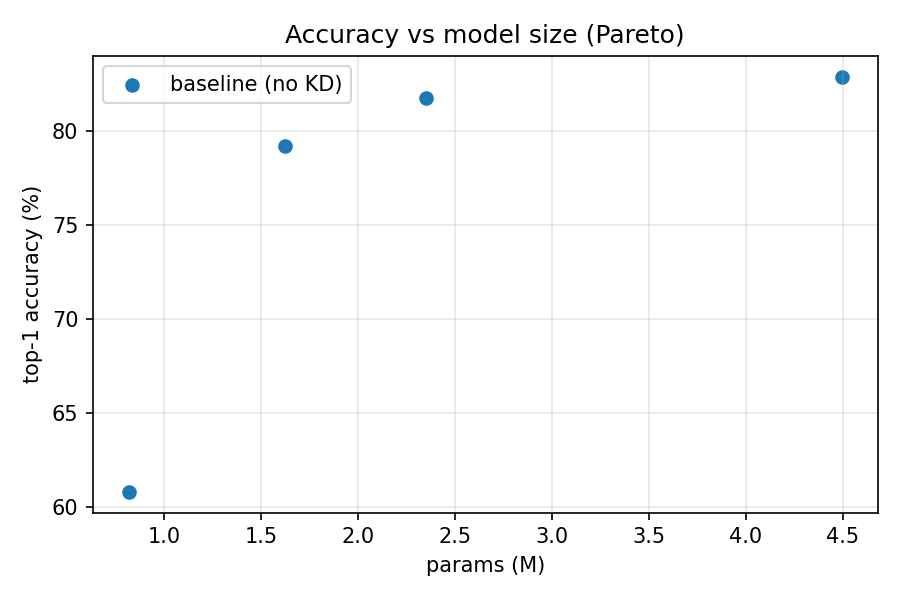
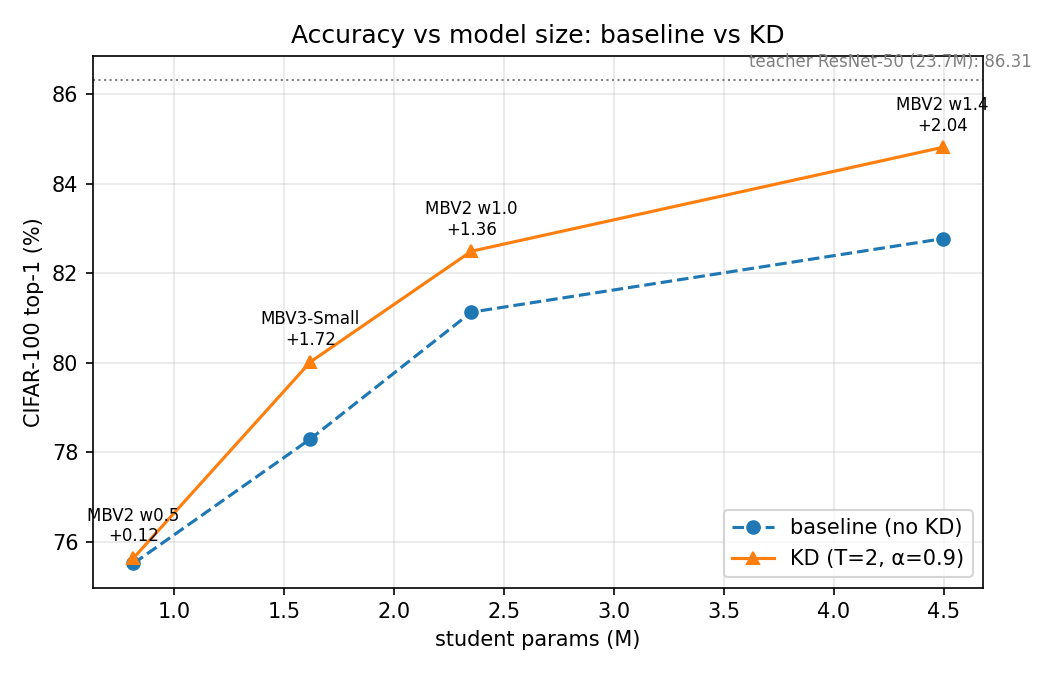
Experiment 4: baseline vs KD (T=2, a=0.9) on all student widths + new plots
- queue_exp4.py: per-student quick recipe test, baseline, KD (no LS, seed 42)
- results: w0.5 +0.12, MBV3-Small +1.72, w1.0 +1.36, w1.4 +2.04 (same-recipe gains, best_top1)
- plot_results.py: plots restricted to final run set; annotated pareto/kd_gain; heatmap (no-LS) and heatmap_old_ls (LS-teacher collapse)
- Known issues to fix next (Option B): selection on test set, T/alpha tuned on w0.5 only, adamw baselines weaker than sgd, single seed

diff --git a/scripts/plot_results.py b/scripts/plot_results.py
@@ -11,6 +11,7 @@ Usage:
 from __future__ import annotations
 
 import argparse
+import re
 import sys
 from pathlib import Path
 
@@ -34,23 +35,53 @@ def _pretrained(row) -> bool:
     return int(_f(row, "pretrained", 1)) == 1
 
 
+# ---- Final (Experiment 4) run set: no label smoothing, adamw, seed 42, KD T=2 a=0.9 ----
+FINAL_STUDENTS = [  # (label, baseline run, KD run)
+    ("MBV2 w0.5", "student_mbv2_cifar100_w0.5_nols_adamw1e-3",
+     "kd_cifar100_w0.5_adamw1e-3_T2.0_a0.9_nols"),
+    ("MBV3-Small", "student_mbv3s_cifar100_nols_adamw1e-3",
+     "kd_cifar100_mbv3s_adamw1e-3_T2.0_a0.9_nols"),
+    ("MBV2 w1.0", "student_mbv2_cifar100_w1.0_nols_adamw1e-3",
+     "kd_cifar100_w1.0_adamw1e-3_T2.0_a0.9_nols"),
+    ("MBV2 w1.4", "student_mbv2_cifar100_w1.4_nols_adamw1e-3",
+     "kd_cifar100_w1.4_adamw1e-3_T2.0_a0.9_nols"),
+]
+FINAL_TEACHER = "teacher_resnet50_cifar100_nols"
+
+
+def final_pairs(rows):
+    """Return [(label, params_m, base_top1, kd_top1)] for students with both runs present."""
+    by_name = {r.get("run_name"): r for r in rows}
+    pairs = []
+    for label, b, k in FINAL_STUDENTS:
+        if b in by_name and k in by_name:
+            pairs.append((label, _f(by_name[b], "params_m"),
+                          _f(by_name[b], "best_top1"), _f(by_name[k], "best_top1")))
+    return sorted(pairs, key=lambda p: p[1]), by_name.get(FINAL_TEACHER)
+
+
 def plot_pareto(rows, out: Path) -> None:
-    rows = [r for r in rows if _pretrained(r)]
-    base = [r for r in rows if int(_f(r, "kd")) == 0 and r.get("model") != "resnet50"]
-    kd = [r for r in rows if int(_f(r, "kd")) == 1]
-    plt.figure(figsize=(6, 4))
-    if base:
-        plt.scatter([_f(r, "params_m") for r in base],
-                    [_f(r, "best_top1") for r in base],
-                    marker="o", label="baseline (no KD)")
-    if kd:
-        plt.scatter([_f(r, "params_m") for r in kd],
-                    [_f(r, "best_top1") for r in kd],
-                    marker="^", label="KD")
-    plt.xlabel("params (M)")
-    plt.ylabel("top-1 accuracy (%)")
-    plt.title("Accuracy vs model size (Pareto)")
-    plt.legend()
+    pairs, teacher = final_pairs(rows)
+    if not pairs:
+        print("[plot] no final baseline/KD pairs; skipping pareto.")
+        return
+    xs = [p[1] for p in pairs]
+    plt.figure(figsize=(7, 4.5))
+    plt.plot(xs, [p[2] for p in pairs], "o--", label="baseline (no KD)")
+    plt.plot(xs, [p[3] for p in pairs], "^-", label="KD (T=2, α=0.9)")
+    for label, x, b, k in pairs:
+        plt.annotate(f"{label}\n+{k - b:.2f}", (x, k), textcoords="offset points",
+                     xytext=(0, 8), ha="center", fontsize=8)
+    if teacher:
+        # teacher drawn as reference line (23.7M params would squash the x-axis)
+        ty = _f(teacher, "best_top1")
+        plt.axhline(ty, color="gray", ls=":", lw=1)
+        plt.text(0.01, ty + 0.15, f"teacher ResNet-50 ({_f(teacher, 'params_m'):.1f}M): {ty:.2f}",
+                 transform=plt.gca().get_yaxis_transform(), ha="left", fontsize=8, color="gray")
+    plt.xlabel("student params (M)")
+    plt.ylabel("CIFAR-100 top-1 (%)")
+    plt.title("Accuracy vs model size: baseline vs KD")
+    plt.legend(loc="lower right")
     plt.grid(True, alpha=0.3)
     plt.tight_layout()
     plt.savefig(out / "pareto.png", dpi=150)
@@ -58,10 +89,11 @@ def plot_pareto(rows, out: Path) -> None:
     print(f"[plot] wrote {out / 'pareto.png'}")
 
 
-def plot_heatmap(rows, out: Path) -> None:
-    kd = [r for r in rows if int(_f(r, "kd")) == 1]
+def plot_heatmap(rows, out: Path, pattern: str, fname: str, title: str) -> None:
+    rx = re.compile(pattern)
+    kd = [r for r in rows if int(_f(r, "kd")) == 1 and rx.fullmatch(r.get("run_name", ""))]
     if not kd:
-        print("[plot] no KD rows; skipping heatmap.")
+        print(f"[plot] no KD rows matching {pattern!r}; skipping {fname}.")
         return
     temps = sorted({_f(r, "temperature") for r in kd})
     alphas = sorted({_f(r, "alpha") for r in kd})
@@ -74,38 +106,34 @@ def plot_heatmap(rows, out: Path) -> None:
     plt.figure(figsize=(5, 4))
     im = plt.imshow(grid, aspect="auto", origin="lower")
     plt.colorbar(im, label="top-1 (%)")
+    for i in range(len(temps)):
+        for j in range(len(alphas)):
+            if grid[i][j] == grid[i][j]:  # not NaN
+                plt.text(j, i, f"{grid[i][j]:.1f}", ha="center", va="center",
+                         fontsize=8, color="w")
     plt.xticks(range(len(alphas)), [f"{a:g}" for a in alphas])
     plt.yticks(range(len(temps)), [f"{t:g}" for t in temps])
     plt.xlabel("alpha")
     plt.ylabel("temperature T")
-    plt.title("KD sweep: top-1 over T x alpha")
+    plt.title(title)
     plt.tight_layout()
-    plt.savefig(out / "heatmap.png", dpi=150)
+    plt.savefig(out / fname, dpi=150)
     plt.close()
-    print(f"[plot] wrote {out / 'heatmap.png'}")
+    print(f"[plot] wrote {out / fname}")
 
 
 def plot_kd_gain(rows, out: Path) -> None:
-    rows = [r for r in rows if _pretrained(r)]
-    base = {}
-    for r in rows:
-        if int(_f(r, "kd")) == 0 and r.get("model") != "resnet50":
-            base[(r.get("model"), _f(r, "width_mult"))] = _f(r, "best_top1")
-    sizes, gains = [], []
-    for r in rows:
-        if int(_f(r, "kd")) == 1:
-            key = (r.get("model"), _f(r, "width_mult"))
-            if key in base:
-                sizes.append(_f(r, "params_m"))
-                gains.append(_f(r, "best_top1") - base[key])
-    if not sizes:
-        print("[plot] no matched baseline/KD students; skipping kd_gain.")
+    pairs, _ = final_pairs(rows)
+    if not pairs:
+        print("[plot] no final baseline/KD pairs; skipping kd_gain.")
         return
-    order = sorted(range(len(sizes)), key=lambda i: sizes[i])
-    sizes = [sizes[i] for i in order]
-    gains = [gains[i] for i in order]
+    sizes = [p[1] for p in pairs]
+    gains = [p[3] - p[2] for p in pairs]
     plt.figure(figsize=(6, 4))
     plt.plot(sizes, gains, marker="o")
+    for (label, x, b, k), g in zip(pairs, gains):
+        plt.annotate(label, (x, g), textcoords="offset points", xytext=(0, 7),
+                     ha="center", fontsize=8)
     plt.axhline(0, color="k", lw=0.8)
     plt.xlabel("student params (M)")
     plt.ylabel("KD gain: top-1(KD) - top-1(baseline)  (pp)")
@@ -130,7 +158,12 @@ def main() -> None:
     out = Path(args.out)
     out.mkdir(parents=True, exist_ok=True)
     plot_pareto(rows, out)
-    plot_heatmap(rows, out)
+    # final setup: no label smoothing, adamw recipe, MBV2 w0.5, seed 42
+    plot_heatmap(rows, out, r"kd_cifar100_w0\.5_adamw1e-3_T[\d.]+_a[\d.]+_nols",
+                 "heatmap.png", "KD on MBV2 w0.5 (no LS, adamw)")
+    # old Night-2 sweep (label-smoothed teacher, sgd 0.01) -> shows the high-alpha collapse
+    plot_heatmap(rows, out, r"kd_cifar100_w0\.5_T[\d.]+_a[\d.]+",
+                 "heatmap_old_ls.png", "Old sweep: LS teacher + sgd0.01 (w0.5)")
     plot_kd_gain(rows, out)
 
 

diff --git a/scripts/queue_exp4.py b/scripts/queue_exp4.py
@@ -1,0 +1,91 @@
+"""P25 Experiment 4: final KD runs on every student width (for the Pareto curve).
+
+For each student (MBV2 w1.0, MBV2 w1.4, MobileNetV3-Small):
+  1. 4-epoch quick recipe test: sgd0.01 vs adamw1e-3 (logged to results/quick_tests.csv)
+  2. full 20-epoch baseline (no KD) with the winning recipe
+  3. KD with the same recipe, T=2, alpha=0.9 (best setting from the w0.5 3-seed check)
+MBV2 w0.5 is already done (student_mbv2_cifar100_w0.5_nols_adamw1e-3 / kd_..._T2.0_a0.9_nols).
+
+All runs: label_smoothing=0, seed 42, teacher = teacher_resnet50_cifar100_nols.
+Resumable: finished runs are skipped, interrupted runs resume from last.pt.
+
+Usage (from repo root):
+    .\\.venv\\Scripts\\python.exe -u scripts/queue_exp4.py
+"""
+from __future__ import annotations
+
+import sys
+import time
+from pathlib import Path
+
+ROOT = Path(__file__).resolve().parents[1]
+sys.path.insert(0, str(ROOT))
+sys.path.insert(0, str(ROOT / "scripts"))
+import queue_night3 as q  # noqa: E402  (reuses train(), kd_args(), top1(), log(), STATUS)
+
+T, ALPHA = 2.0, 0.9
+RECIPES = {k: q.W05_RECIPES[k] for k in ("sgd0.01", "adamw1e-3")}
+
+# tag -> model args
+STUDENTS = {
+    "w1.0": ["--width-mult", "1.0"],
+    "w1.4": ["--width-mult", "1.4"],
+    "mbv3s": ["--model", "mobilenetv3_small"],
+}
+
+# Runs that already exist under an older name (same settings) -> reuse instead of retraining.
+EXISTING_BASELINES = {("w1.0", "sgd0.01"): "student_mbv2_cifar100_w1.0_nols"}
+
+
+def baseline_name(tag: str, recipe: str) -> str:
+    if (tag, recipe) in EXISTING_BASELINES:
+        return EXISTING_BASELINES[(tag, recipe)]
+    prefix = "student_mbv3s_cifar100" if tag == "mbv3s" else f"student_mbv2_cifar100_{tag}"
+    return f"{prefix}_nols_{recipe}"
+
+
+def main() -> None:
+    t_start = time.time()
+    if not q.TEACHER_CKPT.exists():
+        q.log(f"Teacher checkpoint missing: {q.TEACHER_CKPT}. Aborting.")
+        sys.exit(1)
+
+    winners: dict[str, str] = {}
+    for tag, model_args in STUDENTS.items():
+        q.log(f"===== student {tag} =====")
+        # 1. quick recipe test
+        for rname, recipe in RECIPES.items():
+            q.train(f"qt_{tag}_{rname}", "configs/student.yaml",
+                    [*model_args, "--epochs", str(q.QUICK_EPOCHS), *recipe],
+                    csv_path=q.QUICK_CSV)
+        scores = {r: q.top1(f"qt_{tag}_{r}", q.QUICK_CSV, "final_top1") for r in RECIPES}
+        valid = {r: s for r, s in scores.items() if s is not None}
+        best = max(valid, key=valid.get) if valid else "sgd0.01"
+        winners[tag] = best
+        q.log(f"{tag} quick test: " + ", ".join(f"{r}={s}" for r, s in scores.items())
+              + f" -> using {best}")
+
+        # 2. baseline, 3. KD (same recipe)
+        stu_args = [*model_args, *RECIPES[best]]
+        q.train(baseline_name(tag, best), "configs/student.yaml", stu_args)
+        q.train(f"kd_cifar100_{tag}_{best}_T{T}_a{ALPHA}_nols", "configs/kd.yaml",
+                [*stu_args, *q.kd_args(T, ALPHA)])
+
+    # ---- summary: baseline vs KD for every width (incl. w0.5 from night 3) ----
+    q.log(f"ALL DONE in {(time.time() - t_start) / 3600:.2f} h. Baseline vs KD (T={T}, a={ALPHA}):")
+    rows = [("w0.5", "student_mbv2_cifar100_w0.5_nols_adamw1e-3",
+             "kd_cifar100_w0.5_adamw1e-3_T2.0_a0.9_nols", "adamw1e-3")]
+    for tag, best in winners.items():
+        rows.append((tag, baseline_name(tag, best),
+                     f"kd_cifar100_{tag}_{best}_T{T}_a{ALPHA}_nols", best))
+    for tag, b, k, rec in rows:
+        ba, ka = q.top1(b), q.top1(k)
+        gain = f"{ka - ba:+.2f}" if ba is not None and ka is not None else "n/a"
+        print(f"   {tag:6s} recipe={rec:10s} baseline={ba}  KD={ka}  gain={gain}", flush=True)
+    q.log("Run status:")
+    for s in q.STATUS:
+        print("   " + s, flush=True)
+
+
+if __name__ == "__main__":
+    main()
